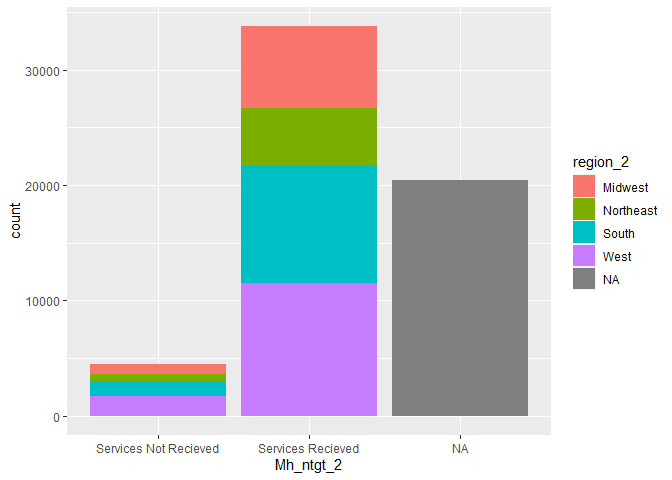
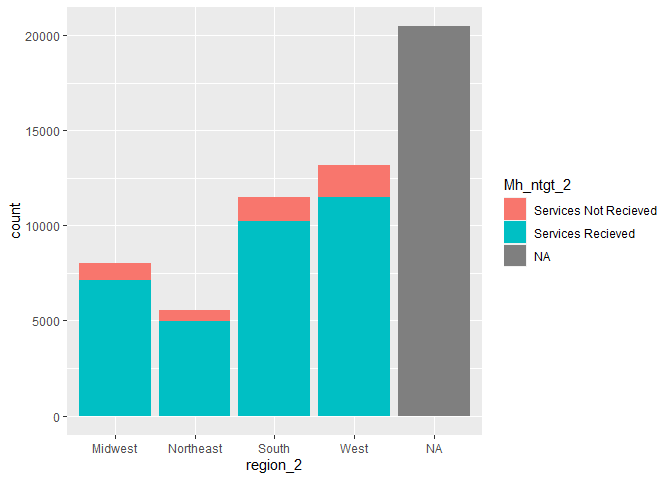
second committ

diff --git a/Midterm/README.md b/Midterm/README.md
@@ -192,7 +192,7 @@ Mh_svs_2 <- ifelse(MHdf_2$PUBHLTH == "1", "Recieved services", "No Services")
 ```
 
 ``` r
-ggplot(MHdf_2, aes(x= Mh_ntgt_2, fill = region_2)) + geom_bar () 
+ggplot(MHdf_2, aes(x= region_2, fill = Mh_ntgt_2)) + geom_bar () 
 ```
 
 ![](README_files/figure-gfm/unnamed-chunk-23-1.png)<!-- -->
@@ -204,34 +204,44 @@ ggplot(MHdf_2, aes(x= Mh_ntgt_2, fill = privins)) + geom_bar(position = position
 ![](README_files/figure-gfm/unnamed-chunk-24-1.png)<!-- -->
 
 ``` r
-summary(MHdf)
+table(region_2, privins)
 ```
 
-    ##     SCRAM            TBIRTH_YEAR         MS             MH_SVCS      
-    ##  Length:58729       Min.   :1932   Min.   :-99.000   Min.   :-99.00  
-    ##  Class :character   1st Qu.:1955   1st Qu.:  1.000   1st Qu.:  1.00  
-    ##  Mode  :character   Median :1968   Median :  1.000   Median :  2.00  
-    ##                     Mean   :1968   Mean   :  1.309   Mean   :-13.63  
-    ##                     3rd Qu.:1981   3rd Qu.:  3.000   3rd Qu.:  2.00  
-    ##                     Max.   :2002   Max.   :  5.000   Max.   :  2.00  
-    ##    MH_NOTGET         EGENDER         ANYWORK            HLTHINS1     
-    ##  Min.   :-99.00   Min.   :1.000   Min.   :-99.0000   Min.   :-99.00  
-    ##  1st Qu.:  1.00   1st Qu.:1.000   1st Qu.:  1.0000   1st Qu.:  1.00  
-    ##  Median :  2.00   Median :2.000   Median :  1.0000   Median :  1.00  
-    ##  Mean   :-13.55   Mean   :1.596   Mean   :  0.8205   Mean   :-16.33  
-    ##  3rd Qu.:  2.00   3rd Qu.:2.000   3rd Qu.:  2.0000   3rd Qu.:  2.00  
-    ##  Max.   :  2.00   Max.   :2.000   Max.   :  2.0000   Max.   :  2.00  
-    ##     HLTHINS2        HLTHINS3         HLTHINS4         HLTHINS5     
-    ##  Min.   :-99.0   Min.   :-99.00   Min.   :-99.00   Min.   :-99.00  
-    ##  1st Qu.:-88.0   1st Qu.:  1.00   1st Qu.:-88.00   1st Qu.:-88.00  
-    ##  Median :  2.0   Median :  2.00   Median :  2.00   Median :  2.00  
-    ##  Mean   :-22.7   Mean   :-20.55   Mean   :-24.58   Mean   :-25.13  
-    ##  3rd Qu.:  2.0   3rd Qu.:  2.00   3rd Qu.:  2.00   3rd Qu.:  2.00  
-    ##  Max.   :  2.0   Max.   :  2.00   Max.   :  2.00   Max.   :  2.00  
-    ##     HLTHINS6         HLTHINS7         HLTHINS8     
-    ##  Min.   :-99.00   Min.   :-99.00   Min.   :-99.00  
-    ##  1st Qu.:-88.00   1st Qu.:-88.00   1st Qu.:-88.00  
-    ##  Median :  2.00   Median :  2.00   Median :  2.00  
-    ##  Mean   :-25.38   Mean   :-26.09   Mean   :-28.64  
-    ##  3rd Qu.:  2.00   3rd Qu.:  2.00   3rd Qu.:  2.00  
-    ##  Max.   :  2.00   Max.   :  2.00   Max.   :  2.00
+    ##            privins
+    ## region_2    Has Private insuracne No private insurance
+    ##   Midwest                    6416                 1609
+    ##   Northeast                  4447                 1119
+    ##   South                      8941                 2564
+    ##   West                      10188                 2976
+
+``` r
+ggplot(MHdf_2, aes(x= privins, fill = Mh_ntgt_2)) + geom_bar () 
+```
+
+![](README_files/figure-gfm/unnamed-chunk-26-1.png)<!-- -->
+
+``` r
+ggplot(MHdf_2, aes(x= pubins, fill = Mh_ntgt_2)) + geom_bar () 
+```
+
+![](README_files/figure-gfm/unnamed-chunk-27-1.png)<!-- -->
+
+``` r
+public_insurance <- ifelse(MHdf_2$PUBHLTH == "1" & MHdf_2$PRIVHLTH == "1", "both", 
+                    ifelse(MHdf_2$PUBHLTH == "1" & MHdf_2$PRIVHLTH == "2", "Public insurance only", 
+                    ifelse(MHdf_2$PUBHLTH == "2" & MHdf_2$PRIVHLTH == "1", "Private insurance only", 
+                    ifelse(MHdf_2$PUBHLTH == "2" & MHdf_2$PRIVHLTH == "2", "No Insurance", NA))))
+                table(public_insurance, useNA = "always")
+```
+
+    ## public_insurance
+    ##                   both           No Insurance Private insurance only 
+    ##                   7773                   2709                  22219 
+    ##  Public insurance only                   <NA> 
+    ##                   5559                  20469
+
+``` r
+ggplot(MHdf_2, aes(x= Mh_ntgt_2, fill = public_insurance)) + geom_bar(position = position_dodge()) 
+```
+
+![](README_files/figure-gfm/unnamed-chunk-29-1.png)<!-- -->
